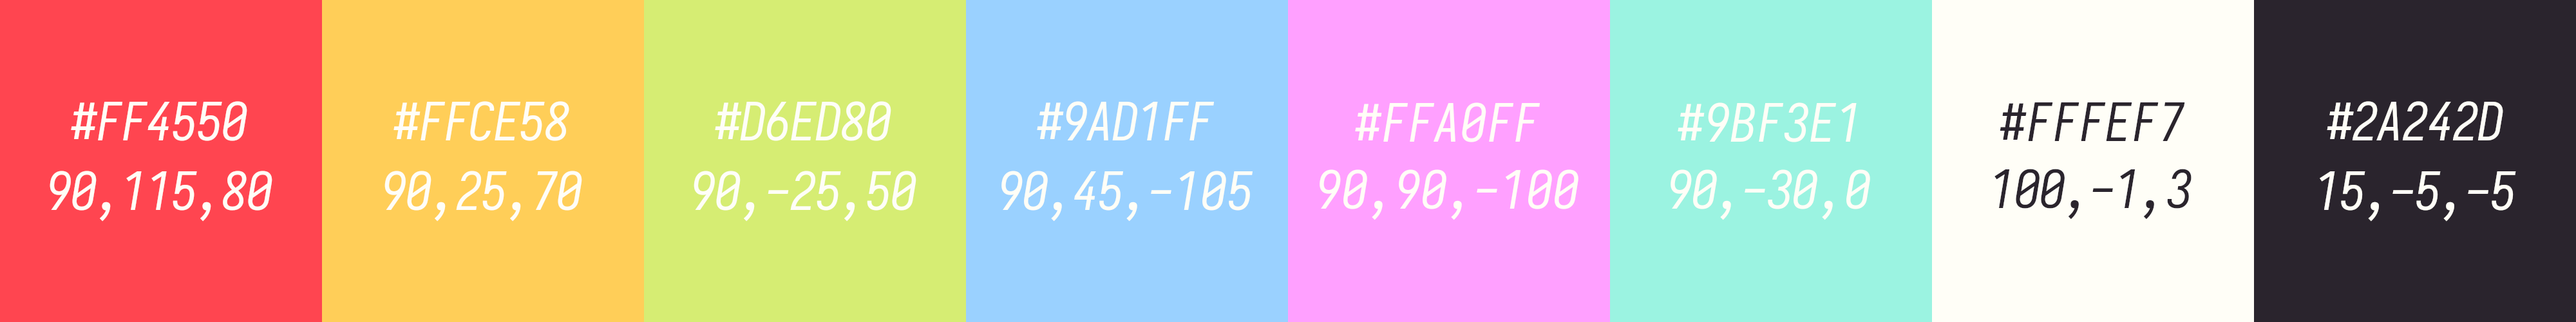
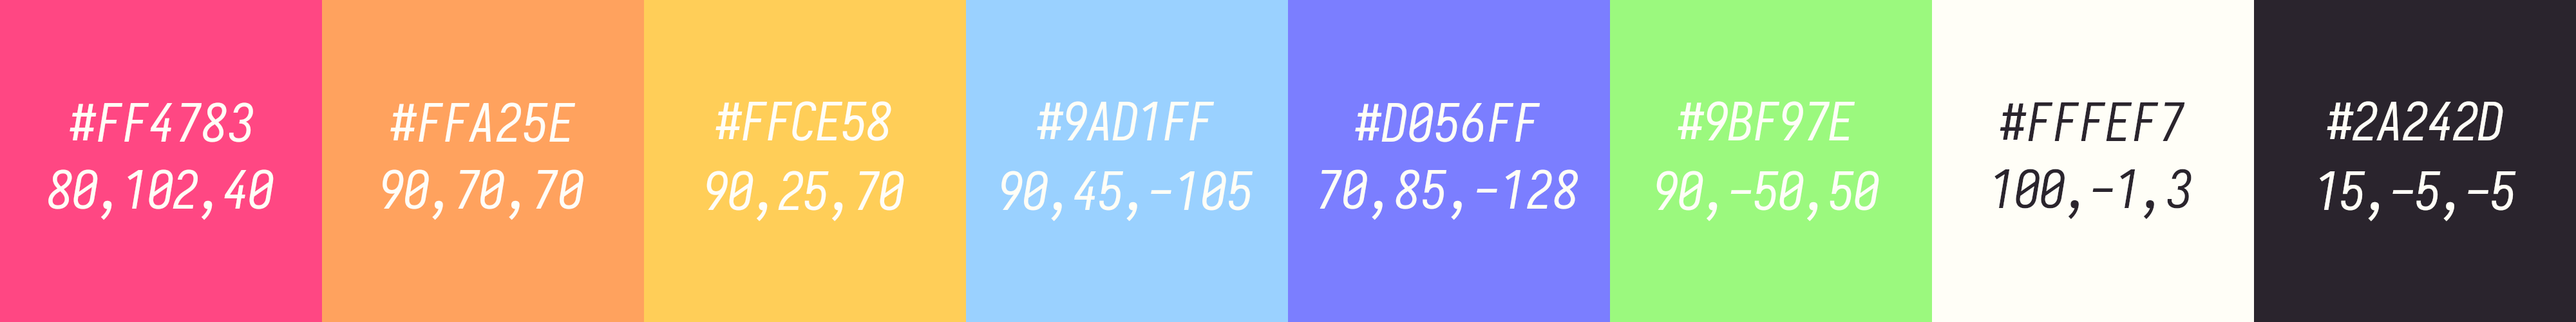
Remake colors

diff --git a/README.md b/README.md
@@ -11,12 +11,11 @@ The theme has been created using L\*a\*b\* values, with help of [Adobe Color](ht
 Generating a theme for Neovim in Lua has been done using [colorgen-nvim](https://github.com/LunarVim/colorgen-nvim), which I can heavily recommend.  
 A TOML file is provided with color definitions, for use with colorgen-nvim.
 
-### Notice
-For now this mostly takes defaults defined in colorgen-nvim's user_template.toml ;w; As I work more on this theme, these will be replaced.  
-This theme will change a bit in the future, particularly colors. Background and foreground will not change.
-
 ## Plugin support?
-When I have more time to work on this :3, soon.
+The theme currently supports these plugins:
+- [indent-blankline.nvim](https://github.com/lukas-reineke/indent-blankline.nvim)
+
+<i>I will add more going forward</i>
 
 ## Preview
 ![Preview](./assets/preview.png)
